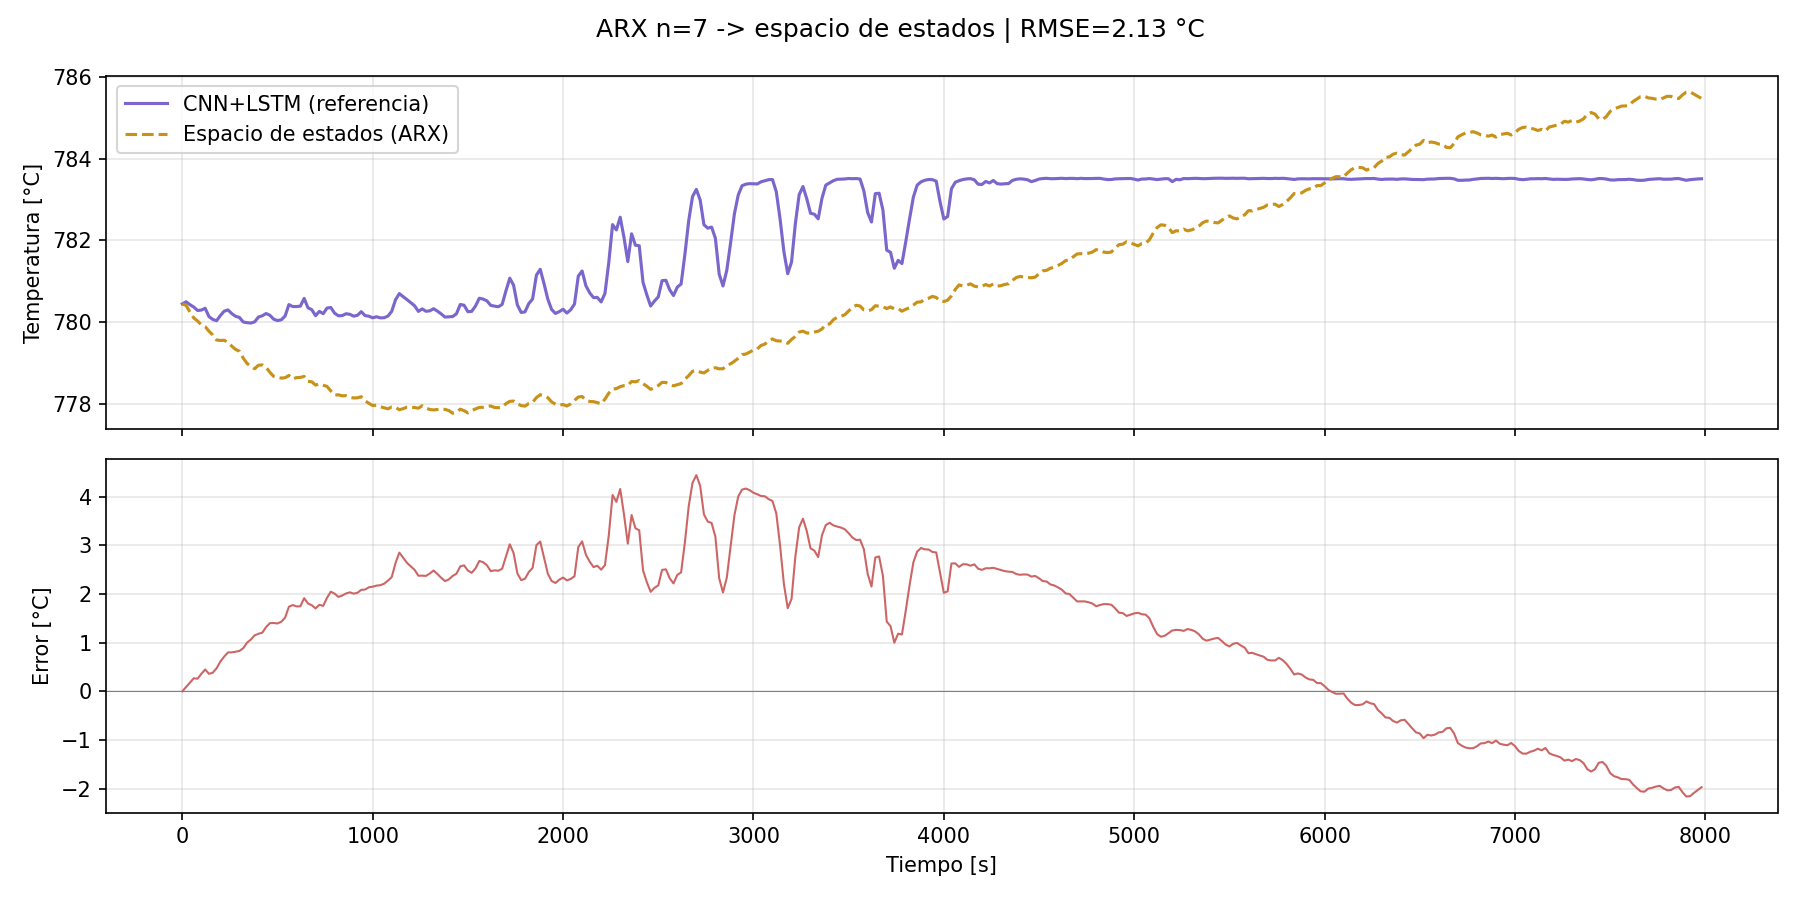
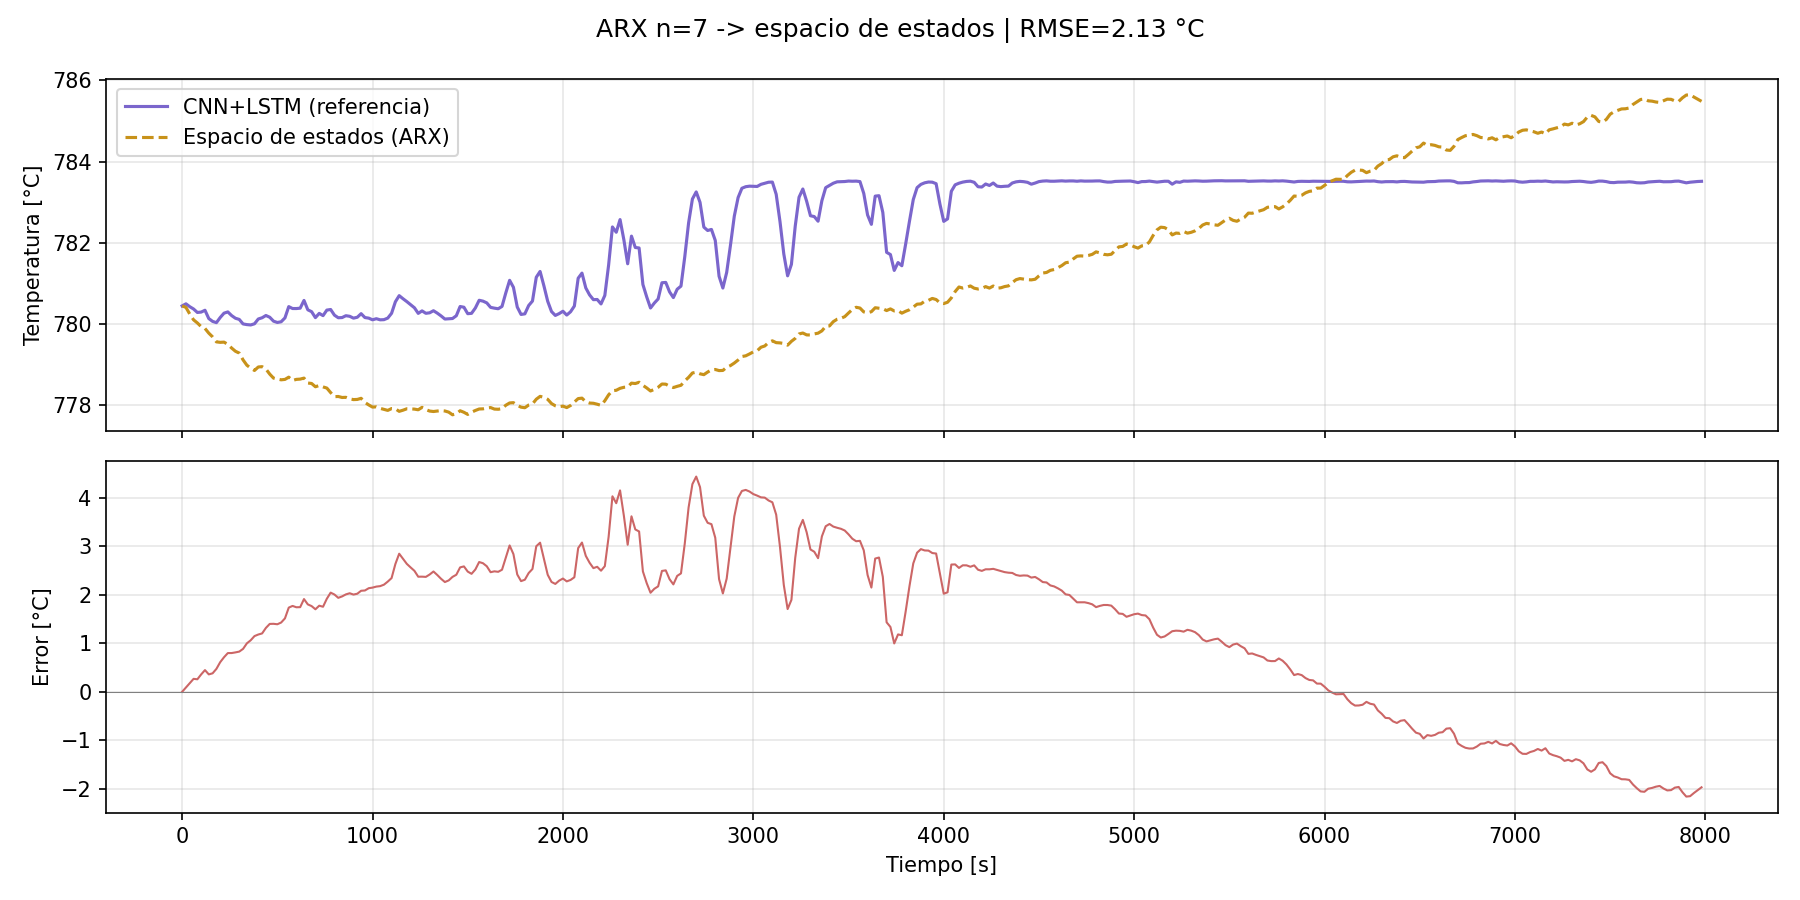
commit changes

diff --git a/README.md b/README.md
@@ -1,2 +1,162 @@
-# Forecasting-Industrial-y-Sistemas-de-Control---RONAL-Group
-Modelado y control de temperatura del horno fusor de aluminio de RONAL Group mediante control moderno (espacio de estados) y un predictor de la dinámica térmica basado en Deep Learning (CNN+LSTM). Proyecto del reto MA2008B, ITESM Campus Querétaro.
+# Forecasting Industrial y Sistemas de Control — RONAL Group
+
+Modelado y control de la temperatura del **horno fusor de aluminio** de RONAL Group.
+El proyecto combina dos enfoques complementarios:
+
+1. **Predictor de la dinámica térmica** basado en *Deep Learning* (CNN + LSTM), que
+   aprende a estimar la temperatura del horno a partir de las variables de proceso.
+2. **Modelo de control moderno** en espacio de estados, identificado a partir del
+   predictor neuronal mediante un ajuste ARX, listo para diseñar un controlador.
+
+Reto **MA2008B** — Equipo 2 — ITESM Campus Querétaro.
+
+---
+
+## El problema
+
+El horno se monitorea con un termopar (`sensor_temp`) muestreado cada **20 s**
+(3 muestras/min). El objetivo es modelar cómo evoluciona la temperatura en función
+de **6 variables de proceso controlables/medibles** y obtener un modelo de planta
+útil para control.
+
+| Variable | Rol |
+|---|---|
+| `gas_flow`, `air_flow`, `furnace_load`, `ambient_temp`, `gas_pressure`, `energy_consumption` | **Entradas** del sistema (las *u*) |
+| `sensor_temp` | **Salida** a predecir / controlar (la *y*) |
+
+> El modelo predice la temperatura **absoluta** usando *únicamente* las 6 variables
+> de proceso. `sensor_temp` **no** es entrada del predictor, lo que evita *data
+> leakage*. El `StandardScaler` se ajusta **solo con la partición de entrenamiento**.
+
+---
+
+## Arquitectura del pipeline
+
+```
+CSV crudo
+   │  preprocessing.py   (limpieza: timestamps, códigos de error, interpolación)
+   ▼
+CSV limpio
+   │  train.py           (ventanas deslizantes → CNN+LSTM → checkpoint .pth)
+   ▼
+models/cnn_lstm_checkpoint.pth
+   │
+   ├─ evaluate.py            → métricas (MAE, RMSE, R²) + figuras
+   │
+   └─ nn_to_state_space.py   (NN como simulador → ARX por AIC → espacio de estados)
+          ▼
+   models/espacio_estados.npz   → matrices A, B, C, D para diseño de controlador
+```
+
+Todos los scripts comparten una **única fuente de verdad** ([config.py](config.py))
+para rutas e hiperparámetros, y se inicializan con [repro.py](repro.py) para que el
+pipeline completo sea **reproducible** (semilla global, modo determinista de PyTorch).
+
+---
+
+## Estructura del repositorio
+
+| Archivo | Descripción |
+|---|---|
+| [config.py](config.py) | Rutas, variables de proceso e hiperparámetros (única fuente de verdad). |
+| [repro.py](repro.py) | Fija semillas y fuerza determinismo en PyTorch. |
+| [preprocessing.py](preprocessing.py) | Limpieza del CSV crudo → CSV limpio. |
+| [dataset.py](dataset.py) | Carga, escalado sin *leakage*, ventanas deslizantes y particiones temporales. |
+| [model.py](model.py) | Arquitectura `CNN_LSTM` y carga/guardado robusto del checkpoint. |
+| [train.py](train.py) | Entrenamiento del predictor CNN+LSTM. |
+| [evaluate.py](evaluate.py) | Evaluación en *test* + generación de gráficas. |
+| [nn_to_state_space.py](nn_to_state_space.py) | Identificación del modelo en espacio de estados (ARX). |
+| [EDA_Horno_Fusor.ipynb](EDA_Horno_Fusor.ipynb) | Análisis exploratorio de datos. |
+| [Modelo_final.slx](Modelo_final.slx) | Modelo de Simulink del sistema de control. |
+| `dataset_horno_fusor1.csv` | Datos crudos del horno (21 600 muestras). |
+| `dataset_horno_fusor_cleaned.csv` | Datos limpios (generados por `preprocessing.py`). |
+| `models/cnn_lstm_checkpoint.pth` | Pesos y escaladores del modelo entrenado. |
+| `models/espacio_estados.npz` | Matrices A, B, C, D del modelo en espacio de estados. |
+| `figures/` | Gráficas generadas por los scripts de evaluación. |
+
+---
+
+## Instalación
+
+Requiere **Python 3.10+**.
+
+```bash
+pip install -r requirements.txt
+```
+
+Dependencias principales: `numpy`, `pandas`, `scipy`, `scikit-learn`, `matplotlib`,
+`torch`. El pipeline corre en **CPU**; usa GPU automáticamente si hay CUDA disponible.
+
+---
+
+## Uso
+
+Ejecuta los scripts desde la raíz del repositorio, en orden:
+
+```bash
+# 1) Limpieza de datos  →  dataset_horno_fusor_cleaned.csv
+python preprocessing.py
+
+# 2) Entrenamiento del predictor  →  models/cnn_lstm_checkpoint.pth
+python train.py
+
+# 3) Evaluación + gráficas  →  figures/pred_vs_real.png, figures/error_absoluto.png
+python evaluate.py
+
+# 4) Identificación en espacio de estados  →  models/espacio_estados.npz
+python nn_to_state_space.py
+```
+
+El repositorio ya incluye el checkpoint y las matrices entrenadas, así que puedes
+ejecutar directamente `evaluate.py` o `nn_to_state_space.py` sin reentrenar.
+Si el CSV limpio no existe, `dataset.py` lo genera automáticamente.
+
+---
+
+## Detalles técnicos
+
+### Limpieza de datos ([preprocessing.py](preprocessing.py))
+- Reconstrucción del *timestamp* real (una muestra cada 20 s).
+- Reemplazo de los códigos de error del termopar (`544.823`, `1003.413`) por `NaN`.
+- Interpolación lineal de los huecos resultantes en `sensor_temp`.
+
+### Modelo predictor ([model.py](model.py))
+- **CNN 1D** (2 capas convolucionales + ReLU + *dropout*) sobre la dimensión temporal,
+  seguida de un **LSTM** apilado (2 capas) y una cabeza lineal.
+- Ventana de **200 pasos**, horizonte de **1 paso**.
+- Pérdida `SmoothL1Loss`, optimizador `Adam`, *scheduler* `ReduceLROnPlateau`,
+  *gradient clipping*.
+- Particiones **temporales** (no aleatorias): train 70 % / val 15 % / test 15 %.
+- El *loader* **infiere la arquitectura desde los pesos**, no de metadatos externos,
+  garantizando que el checkpoint siempre sea coherente.
+
+### Identificación en espacio de estados ([nn_to_state_space.py](nn_to_state_space.py))
+El CNN+LSTM se usa como **simulador**: deslizando ventanas de entradas reales se
+generan pares (U, Y), se ajusta un **ARX por mínimos cuadrados** (orden elegido por
+**AIC**) y se convierte a una realización discreta en forma compañera:
+
+```
+x(k+1) = Ad·x(k) + Bd·u(k)
+y(k)   = Cd·x(k) + Dd·u(k)
+```
+
+Se verifica **estabilidad** (|λ| < 1) y el ajuste contra el predictor neuronal.
+Las matrices se guardan en `models/espacio_estados.npz` junto con los escaladores,
+listas para el diseño del controlador y para [Modelo_final.slx](Modelo_final.slx).
+
+---
+
+## Resultados
+
+Las gráficas se regeneran al ejecutar los scripts y se guardan en [figures/](figures/):
+
+- `pred_vs_real.png` — predicción del CNN+LSTM vs. temperatura real (*test*).
+- `error_absoluto.png` — error absoluto a lo largo del conjunto de *test*.
+- `verificacion_arx_ss.png` — modelo en espacio de estados vs. predictor neuronal.
+
+`evaluate.py` imprime las métricas **RMSE**, **MAE** y **R²** en °C sobre el conjunto
+de prueba.
+
+---
+
+*Proyecto académico — Reto MA2008B, ITESM Campus Querétaro · RONAL Group.*